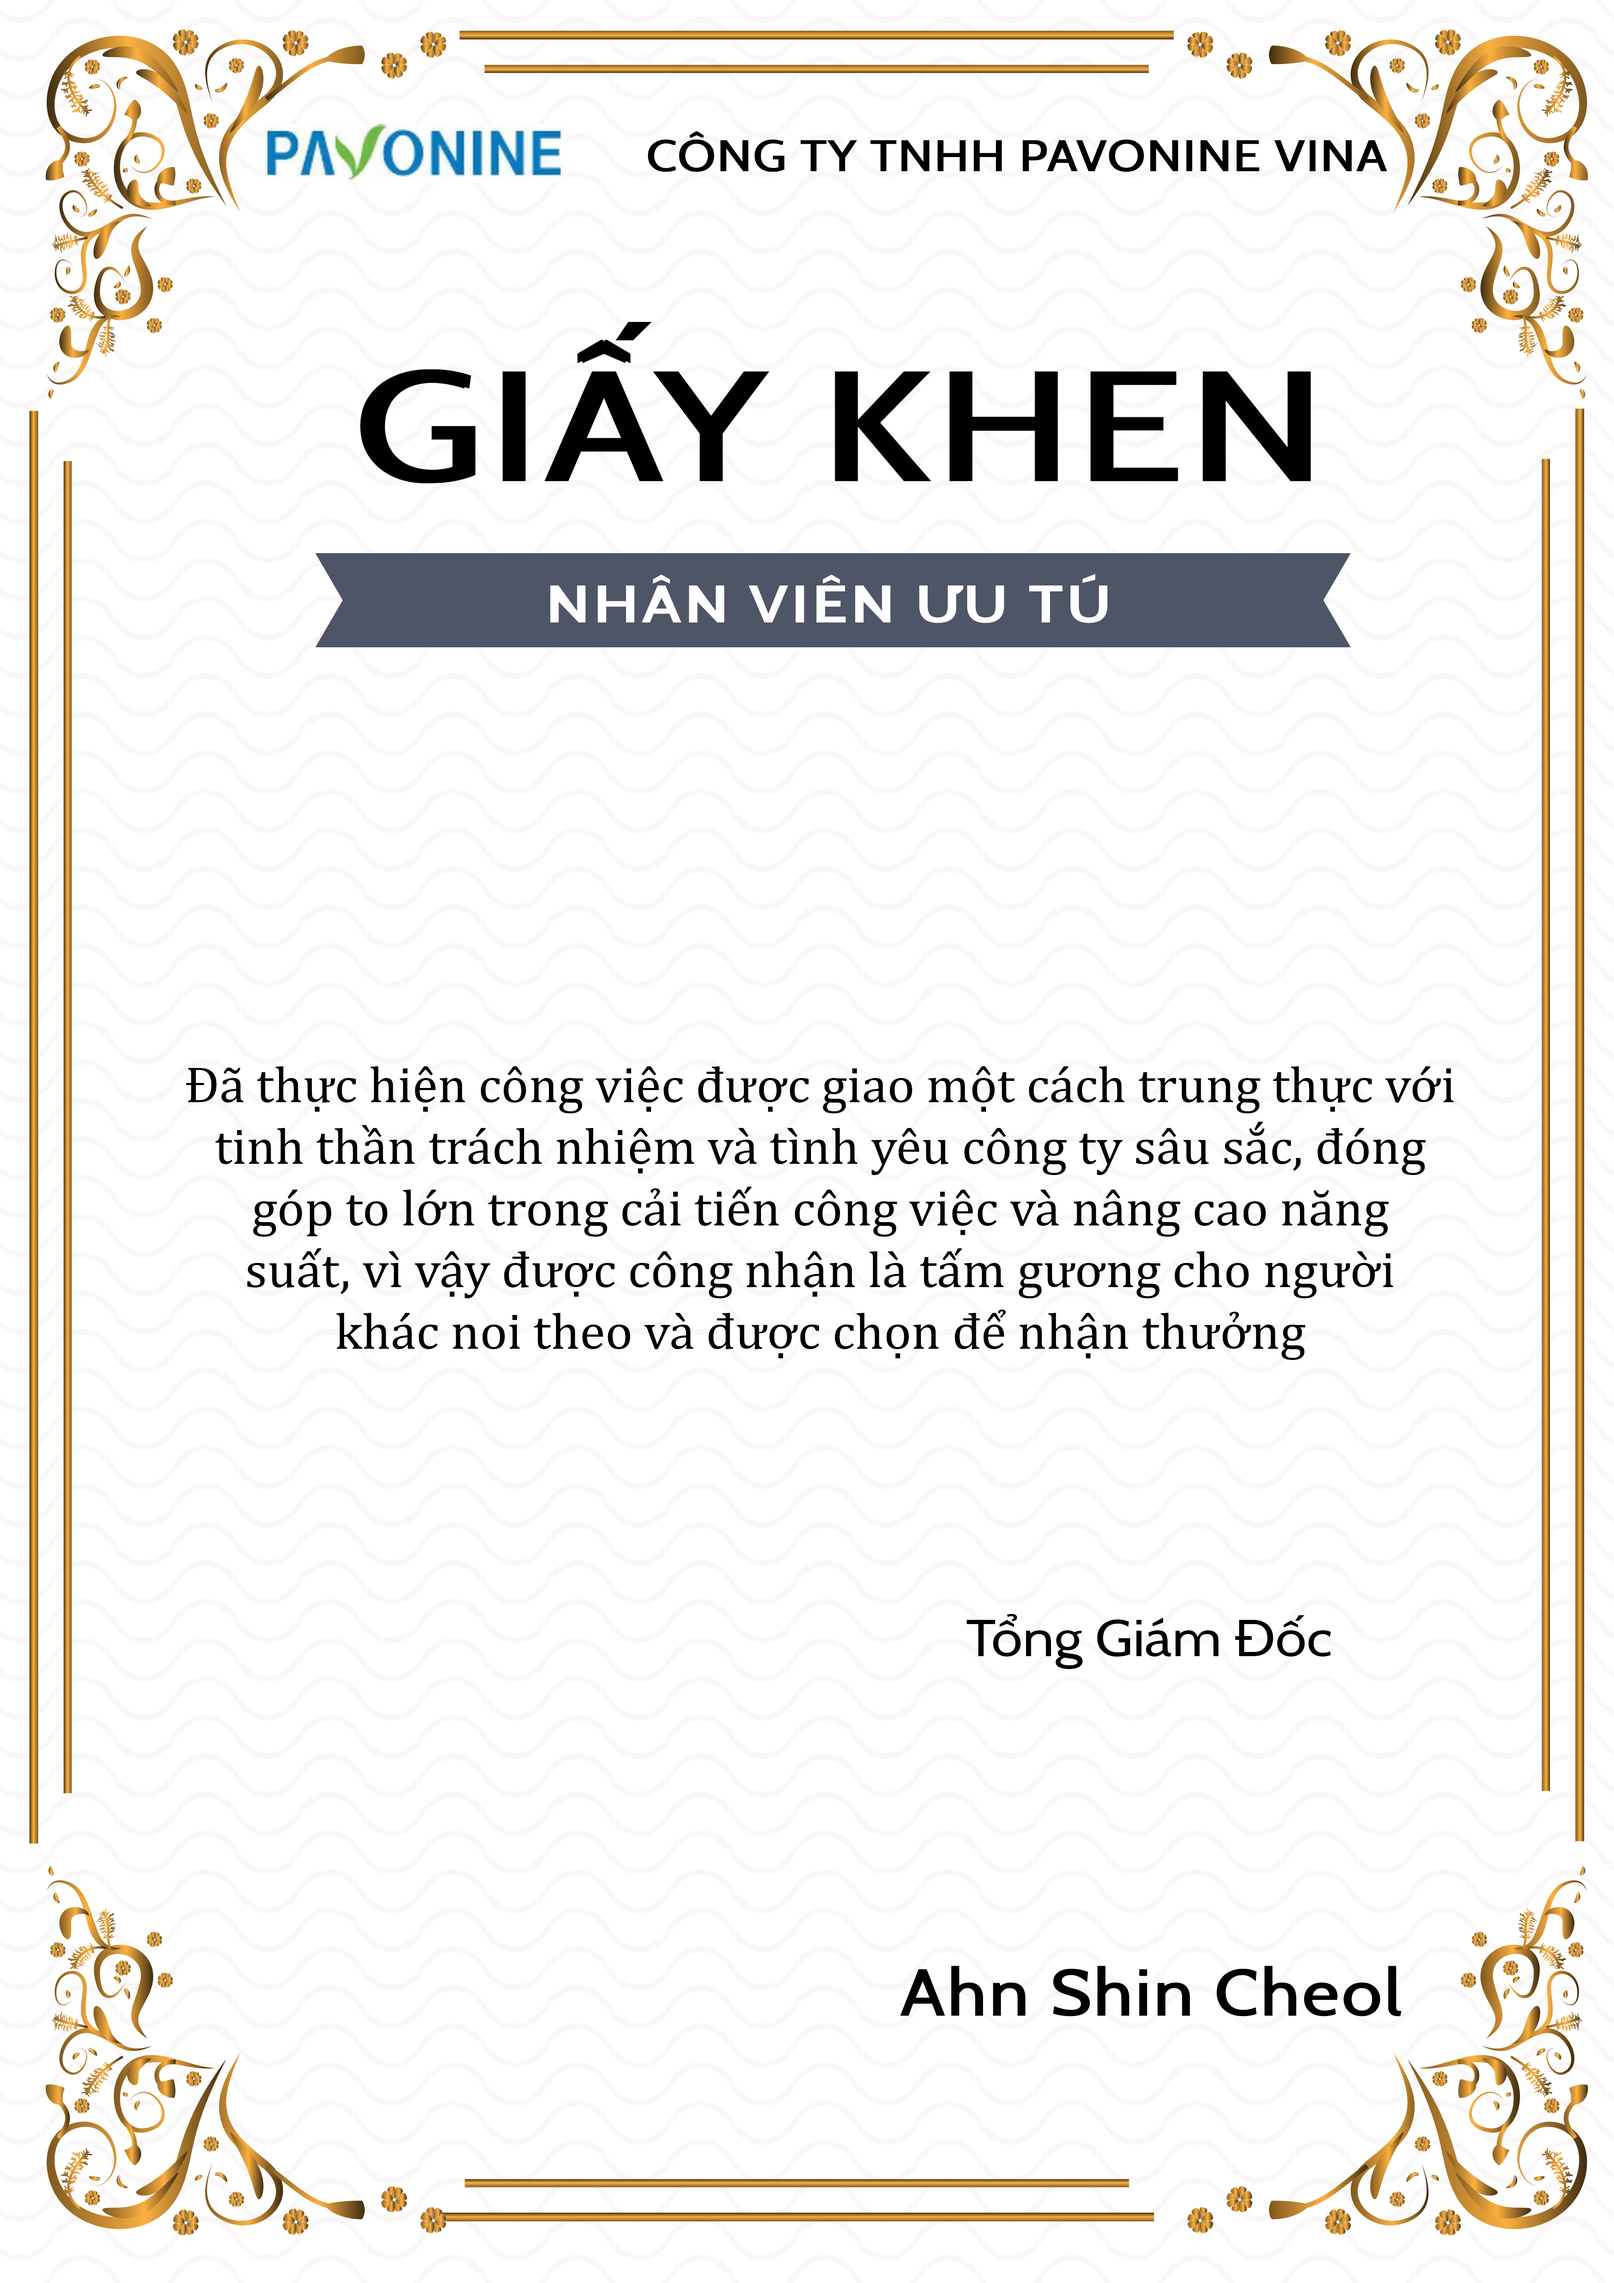
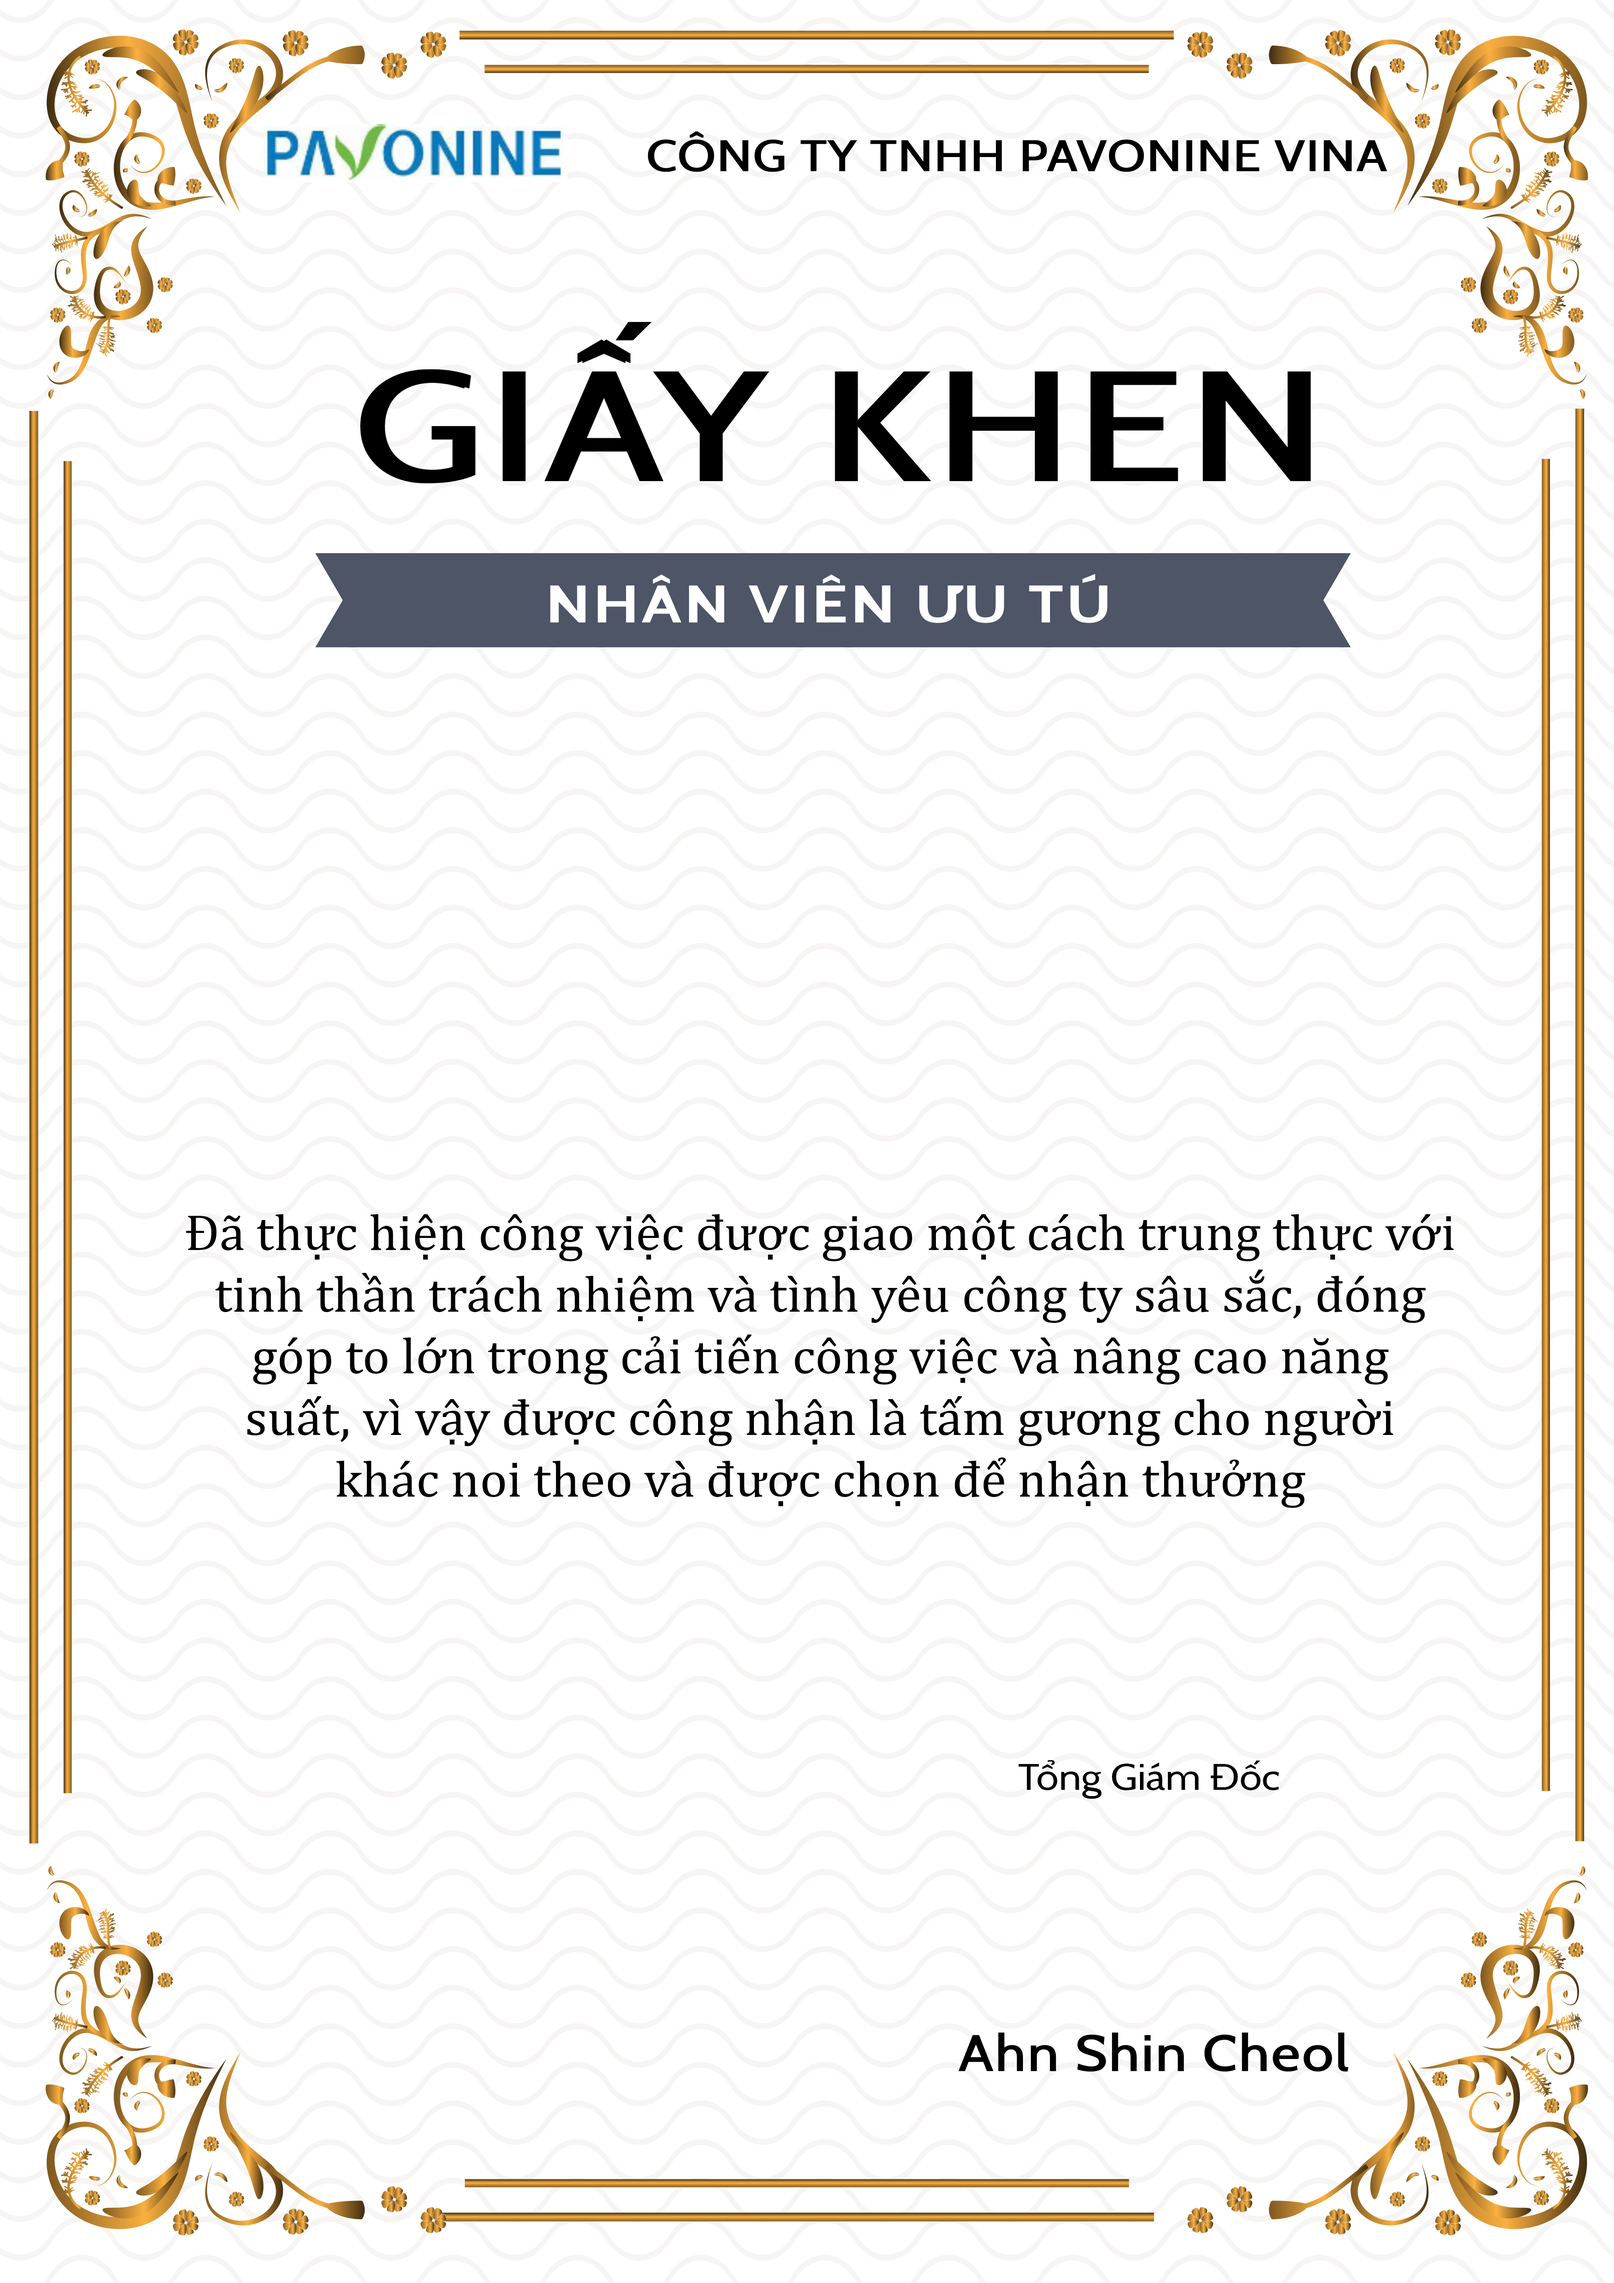
update

diff --git a/src/CertificateGenerator1.jsx b/src/CertificateGenerator1.jsx
@@ -76,33 +76,33 @@ export default function CertificateGenerator1() {
     ctx.fillStyle = "#000";
     ctx.textAlign = "center";
     ctx.textBaseline = "middle";
-    ctx.fillText(displayName, baseWidth / 2, 1350);
+    ctx.fillText(displayName, baseWidth / 2, 1450);
 
     // Bộ phận (nếu có) nằm dưới tên
     let offsetDept = 0;
     if (department && department.trim() !== "") {
-      ctx.font = `italic ${65 * dpr}px 'Arial', 'Cambria', 'serif'`;
+      ctx.font = `italic ${75 * dpr}px 'Arial', 'Cambria', 'serif'`;
       ctx.fillStyle = "#222";
-      ctx.fillText(`Bộ phận: ${department}`, baseWidth / 2, 1420 + 90);
+      ctx.fillText(`Bộ phận: ${department}`, baseWidth / 2, 1550 + 90);
       offsetDept = 90;
     }
 
     // Dòng phụ bên dưới tên (hoặc bộ phận)
     const offsetSub = 470; // nếu có bộ phận thì đẩy xuống thêm
-    ctx.font = `bold ${65 * dpr}px 'Cabin', 'serif'`;
+    ctx.font = `${70 * dpr}px 'Cabin', 'serif'`;
     ctx.fillStyle = "#000";
     // Tự động lấy quý hiện tại và năm hiện tại
     const nowSub2 = new Date();
     const month2 = nowSub2.getMonth(); // 0-11
     const quarter2 = Math.floor(month2 / 3) + 1;
     const year2 = nowSub2.getFullYear();
-    const subText = `nhân viên ưu tú nhất quý ${quarter2} năm ${year2}.`.toUpperCase();
-    ctx.fillText(subText, baseWidth / 2, 1680 + offsetSub);
+    const subText = `nhân viên ưu tú nhất quý ${quarter2} năm ${year2}.`;
+    ctx.fillText(subText, baseWidth / 2, 1900 + offsetSub);
 
     // Ngày tháng năm bên trái dưới
     const dateFontSize = 50;   // chỉnh font size tại đây
     const paddingLeft = 1320;   // khoảng cách từ lề trái
-    const paddingBottom = 1060; // tăng khoảng cách từ đáy lên để chữ cao hơn
+    const paddingBottom = 840; // tăng khoảng cách từ đáy lên để chữ cao hơn
 
     ctx.font = `italic ${dateFontSize * dpr}px 'Arial', 'Times New Roman', 'serif'`;
     ctx.textAlign = "left";

diff --git a/src/CertificateGenerator2.jsx b/src/CertificateGenerator2.jsx
@@ -76,20 +76,20 @@ export default function CertificateGenerator1() {
     ctx.fillStyle = "#000";
     ctx.textAlign = "center";
     ctx.textBaseline = "middle";
-    ctx.fillText(displayName, baseWidth / 2, 1350);
+    ctx.fillText(displayName, baseWidth / 2, 1450);
 
     // Bộ phận (nếu có) nằm dưới tên
     let offsetDept = 0;
     if (department && department.trim() !== "") {
-      ctx.font = `italic ${65 * dpr}px 'Arial', 'Cambria', 'serif'`;
+      ctx.font = `italic ${75 * dpr}px 'Arial', 'Cambria', 'serif'`;
       ctx.fillStyle = "#222";
-      ctx.fillText(`Bộ phận: ${department}`, baseWidth / 2, 1420 + 90);
+      ctx.fillText(`Bộ phận: ${department}`, baseWidth / 2, 1550 + 90);
       offsetDept = 90;
     }
 
     // Dòng phụ bên dưới tên (hoặc bộ phận)
     const offsetSub = 470; // nếu có bộ phận thì đẩy xuống thêm
-    ctx.font = `bold ${80 * dpr}px 'Cabin', 'serif'`;
+    ctx.font = `${70 * dpr}px 'Cabin', 'serif'`;
     ctx.fillStyle = "#000";
     // Tự động lấy quý hiện tại và năm hiện tại
     const nowSub2 = new Date();
@@ -97,12 +97,12 @@ export default function CertificateGenerator1() {
     const quarter2 = Math.floor(month2 / 3) + 1;
     const year2 = nowSub2.getFullYear();
     const subText = `nhân viên ưu tú quý ${quarter2} năm ${year2}.`;
-    ctx.fillText(subText, baseWidth / 2, 1700 + offsetSub);
+    ctx.fillText(subText, baseWidth / 2, 1900 + offsetSub);
 
     // Ngày tháng năm bên trái dưới
     const dateFontSize = 50;   // chỉnh font size tại đây
     const paddingLeft = 1320;   // khoảng cách từ lề trái
-    const paddingBottom = 1060; // tăng khoảng cách từ đáy lên để chữ cao hơn
+    const paddingBottom = 840; // tăng khoảng cách từ đáy lên để chữ cao hơn
 
     ctx.font = `italic ${dateFontSize * dpr}px 'Arial', 'Times New Roman', 'serif'`;
     ctx.textAlign = "left";
